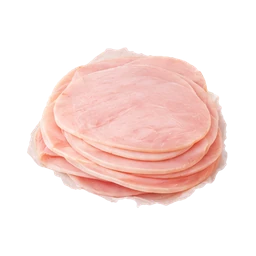
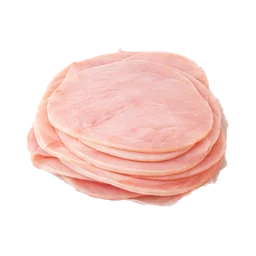
Versione 1.26: Fesa di tacchino ripulita dal bordo chiaro
Claude-Session: https://claude.ai/code/session_01PsEHN9z92aK7YRahLFy1Zj

diff --git a/sw.js b/sw.js
@@ -1,6 +1,6 @@
 // Service worker: tiene l'app disponibile anche senza rete.
 // Per forzare un aggiornamento su tutti i telefoni, cambia il numero di VERSIONE.
-const VERSIONE = 'solo-du-cose-v26';
+const VERSIONE = 'solo-du-cose-v27';
 const FILE = ["./", "index.html", "manifest.webmanifest", "icons/icon-192.png", "icons/icon-512.png", "icons/apple-touch-icon.png", "img/accendino.webp", "img/acciughe.webp", "img/aceto-balsamico.webp", "img/aceto-di-mele.webp", "img/aceto.webp", "img/acetone.webp", "img/acqua-frizzante.webp", "img/acqua-ossigenata.webp", "img/acqua.webp", "img/aglio.webp", "img/agnello.webp", "img/albicocche.webp", "img/alcol-denaturato.webp", "img/ali-di-pollo.webp", "img/amaretti.webp", "img/amaro.webp", "img/amido-di-mais.webp", "img/ammorbidente.webp", "img/anacardi.webp", "img/ananas.webp", "img/anguria.webp", "img/anticalcare.webp", "img/antidolorifico.webp", "img/antiparassitario.webp", "img/antizanzare.webp", "img/aperitivo.webp", "img/arachidi.webp", "img/arancia.webp", "img/aranciata.webp", "img/arancini-surgelati.webp", "img/arrosto.webp", "img/asiago.webp", "img/asparagi.webp", "img/assorbenti.webp", "img/avocado.webp", "img/baccala.webp", "img/bagel.webp", "img/bagnoschiuma.webp", "img/baguette.webp", "img/baiocchi.webp", "img/balsamo.webp", "img/banana.webp", "img/barbabietole.webp", "img/barrette-di-cereali.webp", "img/barrette.webp", "img/basilico.webp", "img/bastoncini-di-pesce.webp", "img/batterie-a-bottone.webp", "img/batterie.webp", "img/besciamella.webp", "img/bevanda-sportiva.webp", "img/bibite.webp", "img/bicarbonato.webp", "img/bicchieri-di-plastica.webp", "img/bietole.webp", "img/biglietti-d-auguri.webp", "img/birra-analcolica.webp", "img/birra.webp", "img/biscotti-integrali.webp", "img/biscotti-mulino-bianco.webp", "img/biscotti.webp", "img/bistecche.webp", "img/bocconcini.webp", "img/borse-della-spesa.webp", "img/braciole.webp", "img/branzino.webp", "img/bresaola.webp", "img/brie.webp", "img/brillantante.webp", "img/brioche.webp", "img/broccoli-surgelati.webp", "img/broccoli.webp", "img/brodo.webp", "img/bucatini.webp", "img/budino.webp", "img/burrata.webp", "img/burro-di-arachidi.webp", "img/burro.webp", "img/burrocacao.webp", "img/buste.webp", "img/cacao-amaro.webp", "img/cachi.webp", "img/caciotta.webp", "img/caffe-d-orzo.webp", "img/caffe-freddo.webp", "img/caffe-in-capsule.webp", "img/caffe-in-grani.webp", "img/caffe-macinato.webp", "img/caffe.webp", "img/calamari-surgelati.webp", "img/calamari.webp", "img/camomilla.webp", "img/cancelleria.webp", "img/candeggina.webp", "img/candele-profumate.webp", "img/candele.webp", "img/candeline.webp", "img/cannella.webp", "img/cannucce.webp", "img/cantucci.webp", "img/capperi.webp", "img/caramelle.webp", "img/carciofi.webp", "img/carciofini-sott-olio.webp", "img/carote-surgelate.webp", "img/carote.webp", "img/carta-alluminio.webp", "img/carta-da-cucina.webp", "img/carta-forno.webp", "img/carta-igienica.webp", "img/carta-regalo.webp", "img/castagne.webp", "img/cavolfiore-surgelato.webp", "img/cavolfiore.webp", "img/cavolo-cappuccio.webp", "img/cavolo-nero.webp", "img/ceci.webp", "img/cereali.webp", "img/cerotti.webp", "img/cetrioli.webp", "img/cetriolini.webp", "img/chinotto.webp", "img/ciabatta.webp", "img/ciambella.webp", "img/ciambelle.webp", "img/cibo-per-cani.webp", "img/cicoria.webp", "img/ciliegie.webp", "img/cioccolatini.webp", "img/cioccolato-al-latte.webp", "img/cioccolato-bianco.webp", "img/cioccolato-fondente.webp", "img/cioccolato.webp", "img/cipolla.webp", "img/clementine.webp", "img/cocco.webp", "img/cola.webp", "img/collutorio.webp", "img/colomba.webp", "img/concentrato-di-pomodoro.webp", "img/coniglio.webp", "img/contenitori.webp", "img/coppa.webp", "img/corn-flakes.webp", "img/cornetto.webp", "img/cosce-di-pollo.webp", "img/costine.webp", "img/cotolette-surgelate.webp", "img/cotolette.webp", "img/cotone.webp", "img/cotton-fioc.webp", "img/couscous.webp", "img/cozze.webp", "img/cracker.webp", "img/crema-corpo.webp", "img/crema-idratante.webp", "img/crema-mani.webp", "img/crema-viso.webp", "img/croccantini.webp", "img/crocchette-di-patate.webp", "img/crostata.webp", "img/crostatine.webp", "img/curry.webp", "img/dentifricio.webp", "img/deodorante-per-ambiente.webp", "img/deodorante-roll-on.webp", "img/deodorante.webp", "img/detersivo-in-capsule.webp", "img/detersivo-pavimenti.webp", "img/detersivo-piatti.webp", "img/detersivo-vetri.webp", "img/detersivo.webp", "img/dischetti-struccanti.webp", "img/disincrostante.webp", "img/disinfettante.webp", "img/doccia.webp", "img/dopobarba.webp", "img/emmental.webp", "img/energy-drink.webp", "img/fagioli.webp", "img/fagiolini-surgelati.webp", "img/fagiolini.webp", "img/farfalle.webp", "img/farina.webp", "img/farmacia.webp", "img/farro.webp", "img/fave.webp", "img/fazzoletti.webp", "img/fegato.webp", "img/fesa-di-tacchino.webp", "img/feta.webp", "img/fette-biscottate.webp", "img/fettine-di-pollo.webp", "img/fettine-di-vitello.webp", "img/fiammiferi.webp", "img/fichi.webp", "img/fiesta.webp", "img/filetto-di-manzo.webp", "img/filo-interdentale.webp", "img/filone.webp", "img/finocchi.webp", "img/fiocchi-d-avena.webp", "img/fiocchi-di-latte.webp", "img/fiori.webp", "img/focaccia-surgelata.webp", "img/focaccia.webp", "img/fontina.webp", "img/formaggini.webp", "img/formaggio-grattugiato.webp", "img/formaggio-spalmabile.webp", "img/formaggio.webp", "img/fragole.webp", "img/fritto-misto-surgelato.webp", "img/frollini.webp", "img/frutta-secca.webp", "img/frutti-di-bosco-surgelati.webp", "img/funghi-sott-olio.webp", "img/funghi.webp", "img/fusilli.webp", "img/gamberetti-surgelati.webp", "img/gamberi.webp", "img/garze.webp", "img/gassosa.webp", "img/gel-igienizzante.webp", "img/gel-per-capelli.webp", "img/gelatina.webp", "img/gelato.webp", "img/ghiaccio.webp", "img/ghiaccioli.webp", "img/giardiniera.webp", "img/ginger.webp", "img/gnocchi.webp", "img/gocce-di-cioccolato.webp", "img/gocciole.webp", "img/gomme-da-masticare.webp", "img/gorgonzola.webp", "img/graffette.webp", "img/grana.webp", "img/grappa.webp", "img/grissini.webp", "img/guanciale.webp", "img/guanti.webp", "img/hamburger-surgelati.webp", "img/hamburger.webp", "img/igienizzante.webp", "img/insalata-mista.webp", "img/insalata.webp", "img/insetticida.webp", "img/integratori.webp", "img/involtini.webp", "img/kefir.webp", "img/ketchup.webp", "img/kiwi.webp", "img/krapfen.webp", "img/lacca.webp", "img/lambrusco.webp", "img/lamette.webp", "img/lampadine.webp", "img/lamponi.webp", "img/lasagne.webp", "img/latte-detergente.webp", "img/latte-di-avena.webp", "img/latte-di-mandorla.webp", "img/latte-di-soia.webp", "img/latte-senza-lattosio.webp", "img/latte.webp", "img/lattuga.webp", "img/lavastoviglie-pastiglie.webp", "img/lecca-lecca.webp", "img/legumi-misti.webp", "img/lenticchie.webp", "img/lievito-di-birra.webp", "img/lievito.webp", "img/lime.webp", "img/limoncello.webp", "img/limone.webp", "img/linguine.webp", "img/liquirizia.webp", "img/macinato.webp", "img/maiale.webp", "img/maionese.webp", "img/mais-in-scatola.webp", "img/mais-surgelato.webp", "img/mais.webp", "img/mandarini.webp", "img/mandorle.webp", "img/mango.webp", "img/manzo.webp", "img/margarina.webp", "img/marmellata.webp", "img/mascara.webp", "img/mascarpone.webp", "img/maschera-per-capelli.webp", "img/matite.webp", "img/mazzancolle.webp", "img/mela.webp", "img/melanzana.webp", "img/mele-verdi.webp", "img/melograno.webp", "img/melone.webp", "img/menta.webp", "img/mentine.webp", "img/merendine.webp", "img/merluzzo-surgelato.webp", "img/merluzzo.webp", "img/miele.webp", "img/minestrone-surgelato.webp", "img/mirtilli.webp", "img/mocio.webp", "img/more.webp", "img/mortadella.webp", "img/mozzarella.webp", "img/mozzarelline.webp", "img/muesli.webp", "img/muffin.webp", "img/nastri.webp", "img/nastro-adesivo.webp", "img/nocciole.webp", "img/noccioline.webp", "img/noce-moscata.webp", "img/noci.webp", "img/nuggets.webp", "img/nutella-biscuits.webp", "img/nutella.webp", "img/occhi-di-bue.webp", "img/olio-extravergine.webp", "img/olio.webp", "img/olive.webp", "img/orata.webp", "img/orecchiette.webp", "img/origano.webp", "img/orzo.webp", "img/pacco.webp", "img/pagliette.webp", "img/paletta.webp", "img/palloncini.webp", "img/pan-carre.webp", "img/pancake.webp", "img/pancetta.webp", "img/pandoro.webp", "img/pane-casereccio.webp", "img/pane-in-cassetta.webp", "img/pane-integrale.webp", "img/pane-senza-glutine.webp", "img/pane.webp", "img/panettone.webp", "img/pangrattato.webp", "img/panini-per-hamburger.webp", "img/panini.webp", "img/panna.webp", "img/panni.webp", "img/pannolini.webp", "img/paprika.webp", "img/parmigiano.webp", "img/passata.webp", "img/pasta-all-uovo.webp", "img/pasta-brisee.webp", "img/pasta-sfoglia.webp", "img/pasta.webp", "img/pasticcini.webp", "img/patate-dolci.webp", "img/patate-surgelate.webp", "img/patate.webp", "img/patatine-surgelate.webp", "img/patatine.webp", "img/pecorino.webp", "img/pellicola.webp", "img/penne.webp", "img/pepe.webp", "img/peperoncino.webp", "img/peperone.webp", "img/pera.webp", "img/pesca.webp", "img/pesce-spada.webp", "img/pesce-surgelato.webp", "img/pesto.webp", "img/petto-di-pollo.webp", "img/piadine.webp", "img/piante.webp", "img/piatti-di-carta.webp", "img/pinoli.webp", "img/piselli-freschi.webp", "img/piselli-in-scatola.webp", "img/piselli-surgelati.webp", "img/pistacchi.webp", "img/pizza-base.webp", "img/pizza-surgelata.webp", "img/platessa.webp", "img/plumcake.webp", "img/polenta.webp", "img/pollo.webp", "img/polpa-di-pomodoro.webp", "img/polpette-surgelate.webp", "img/polpette.webp", "img/polpo.webp", "img/pomodori-datterini.webp", "img/pomodori-pelati.webp", "img/pomodori-secchi.webp", "img/pomodorini-ciliegino.webp", "img/pomodoro.webp", "img/pompelmo.webp", "img/popcorn.webp", "img/porchetta.webp", "img/posate-di-plastica.webp", "img/prezzemolo.webp", "img/prosciutto-cotto.webp", "img/prosciutto-crudo.webp", "img/prosecco.webp", "img/protezione-solare.webp", "img/provola.webp", "img/prugne.webp", "img/quaderni.webp", "img/radicchio.webp", "img/rasoi.webp", "img/ravanelli.webp", "img/ravioli-surgelati.webp", "img/ravioli.webp", "img/regalo.webp", "img/ricambi-mocio.webp", "img/ricotta.webp", "img/rigatoni.webp", "img/riso-basmati.webp", "img/riso.webp", "img/rosmarino.webp", "img/rossetto.webp", "img/rotoloni.webp", "img/rucola.webp", "img/sacchetti-freezer.webp", "img/sacchetti-igienici.webp", "img/sacchetti-umido.webp", "img/sacchi-della-spazzatura.webp", "img/salame.webp", "img/salatini.webp", "img/sale-per-lavastoviglie.webp", "img/sale.webp", "img/salmone-affumicato.webp", "img/salmone-surgelato.webp", "img/salmone.webp", "img/salsa-barbecue.webp", "img/salsa-di-soia.webp", "img/salsicce.webp", "img/salvia.webp", "img/salviette-neonato.webp", "img/salviette-umidificate.webp", "img/sapone-intimo.webp", "img/sapone-liquido.webp", "img/sapone.webp", "img/sardine-in-scatola.webp", "img/sardine.webp", "img/savoiardi.webp", "img/scalogno.webp", "img/scamorza.webp", "img/scampi.webp", "img/schiuma-da-barba.webp", "img/sciroppo.webp", "img/scopa.webp", "img/secchio.webp", "img/sedano.webp", "img/semola.webp", "img/senape.webp", "img/seppie.webp", "img/sgombro.webp", "img/sgrassatore.webp", "img/shampoo.webp", "img/smalto.webp", "img/snack-per-cani.webp", "img/soffritto-surgelato.webp", "img/sogliola.webp", "img/sorbetto.webp", "img/sottaceti.webp", "img/sottilette.webp", "img/spaghetti.webp", "img/spazzola.webp", "img/spazzolino.webp", "img/speck.webp", "img/spezzatino.webp", "img/spinaci-surgelati.webp", "img/spinaci.webp", "img/spremuta.webp", "img/spugne.webp", "img/spumante.webp", "img/straccetti-di-pollo.webp", "img/stracchino.webp", "img/strofinacci.webp", "img/struccante.webp", "img/succo-d-arancia.webp", "img/succo-di-frutta.webp", "img/succo-di-limone.webp", "img/succo-di-pomodoro.webp", "img/sugo.webp", "img/surimi.webp", "img/tacchino.webp", "img/tagliata.webp", "img/tagliatelle.webp", "img/taleggio.webp", "img/tamponi.webp", "img/taralli.webp", "img/te-freddo.webp", "img/te.webp", "img/termometro.webp", "img/timo.webp", "img/tisane.webp", "img/tonica.webp", "img/tonno-fresco.webp", "img/tonno-in-scatola.webp", "img/torrone.webp", "img/torta.webp", "img/tortellini.webp", "img/tortillas.webp", "img/totani.webp", "img/tovaglioli.webp", "img/trota.webp", "img/umido-per-cani.webp", "img/uova.webp", "img/uva.webp", "img/uvetta.webp", "img/vanillina.webp", "img/ventaglietti.webp", "img/verdure-surgelate.webp", "img/vino-bianco.webp", "img/vino-frizzante.webp", "img/vino.webp", "img/vitamine.webp", "img/vitello.webp", "img/vongole.webp", "img/wafer.webp", "img/wurstel.webp", "img/yogurt-alla-frutta.webp", "img/yogurt-greco.webp", "img/yogurt.webp", "img/zenzero.webp", "img/zucca.webp", "img/zucchero-a-velo.webp", "img/zucchero-di-canna.webp", "img/zucchero.webp", "img/zucchina.webp"];
 
 self.addEventListener('install', e => {

diff --git a/index.html b/index.html
@@ -549,7 +549,7 @@ function renderMoreMain() {
     <div class="group">
       <div class="ln"><div>Cancella tutto<small>Elimina liste e carte da questo telefono</small></div><button class="btn danger" data-act="wipe">Cancella</button></div>
     </div>
-    <p style="text-align:center;color:var(--muted);font-size:13px">Solo du Cosette · versione 1.25<br>I dati restano solo su questo telefono.</p>`;
+    <p style="text-align:center;color:var(--muted);font-size:13px">Solo du Cosette · versione 1.26<br>I dati restano solo su questo telefono.</p>`;
 }
 
 function render() {

diff --git a/README.md b/README.md
@@ -29,7 +29,7 @@ App web (PWA) senza server e senza account: liste, carte fedeltà e impostazioni
 3. Dopo circa un minuto l'app è su `https://<utente>.github.io/Solo-du-Cosette/`.
 
 ## Aggiornare l'app
-Dopo ogni modifica a `index.html`, cambiare il numero di `VERSIONE` in `sw.js` (per esempio da `v26` a `v27`). Così il telefono scarica la versione nuova.
+Dopo ogni modifica a `index.html`, cambiare il numero di `VERSIONE` in `sw.js` (per esempio da `v27` a `v28`). Così il telefono scarica la versione nuova.
 
 ## File
 - `index.html`: tutta l'app (pagina, stile e codice)
